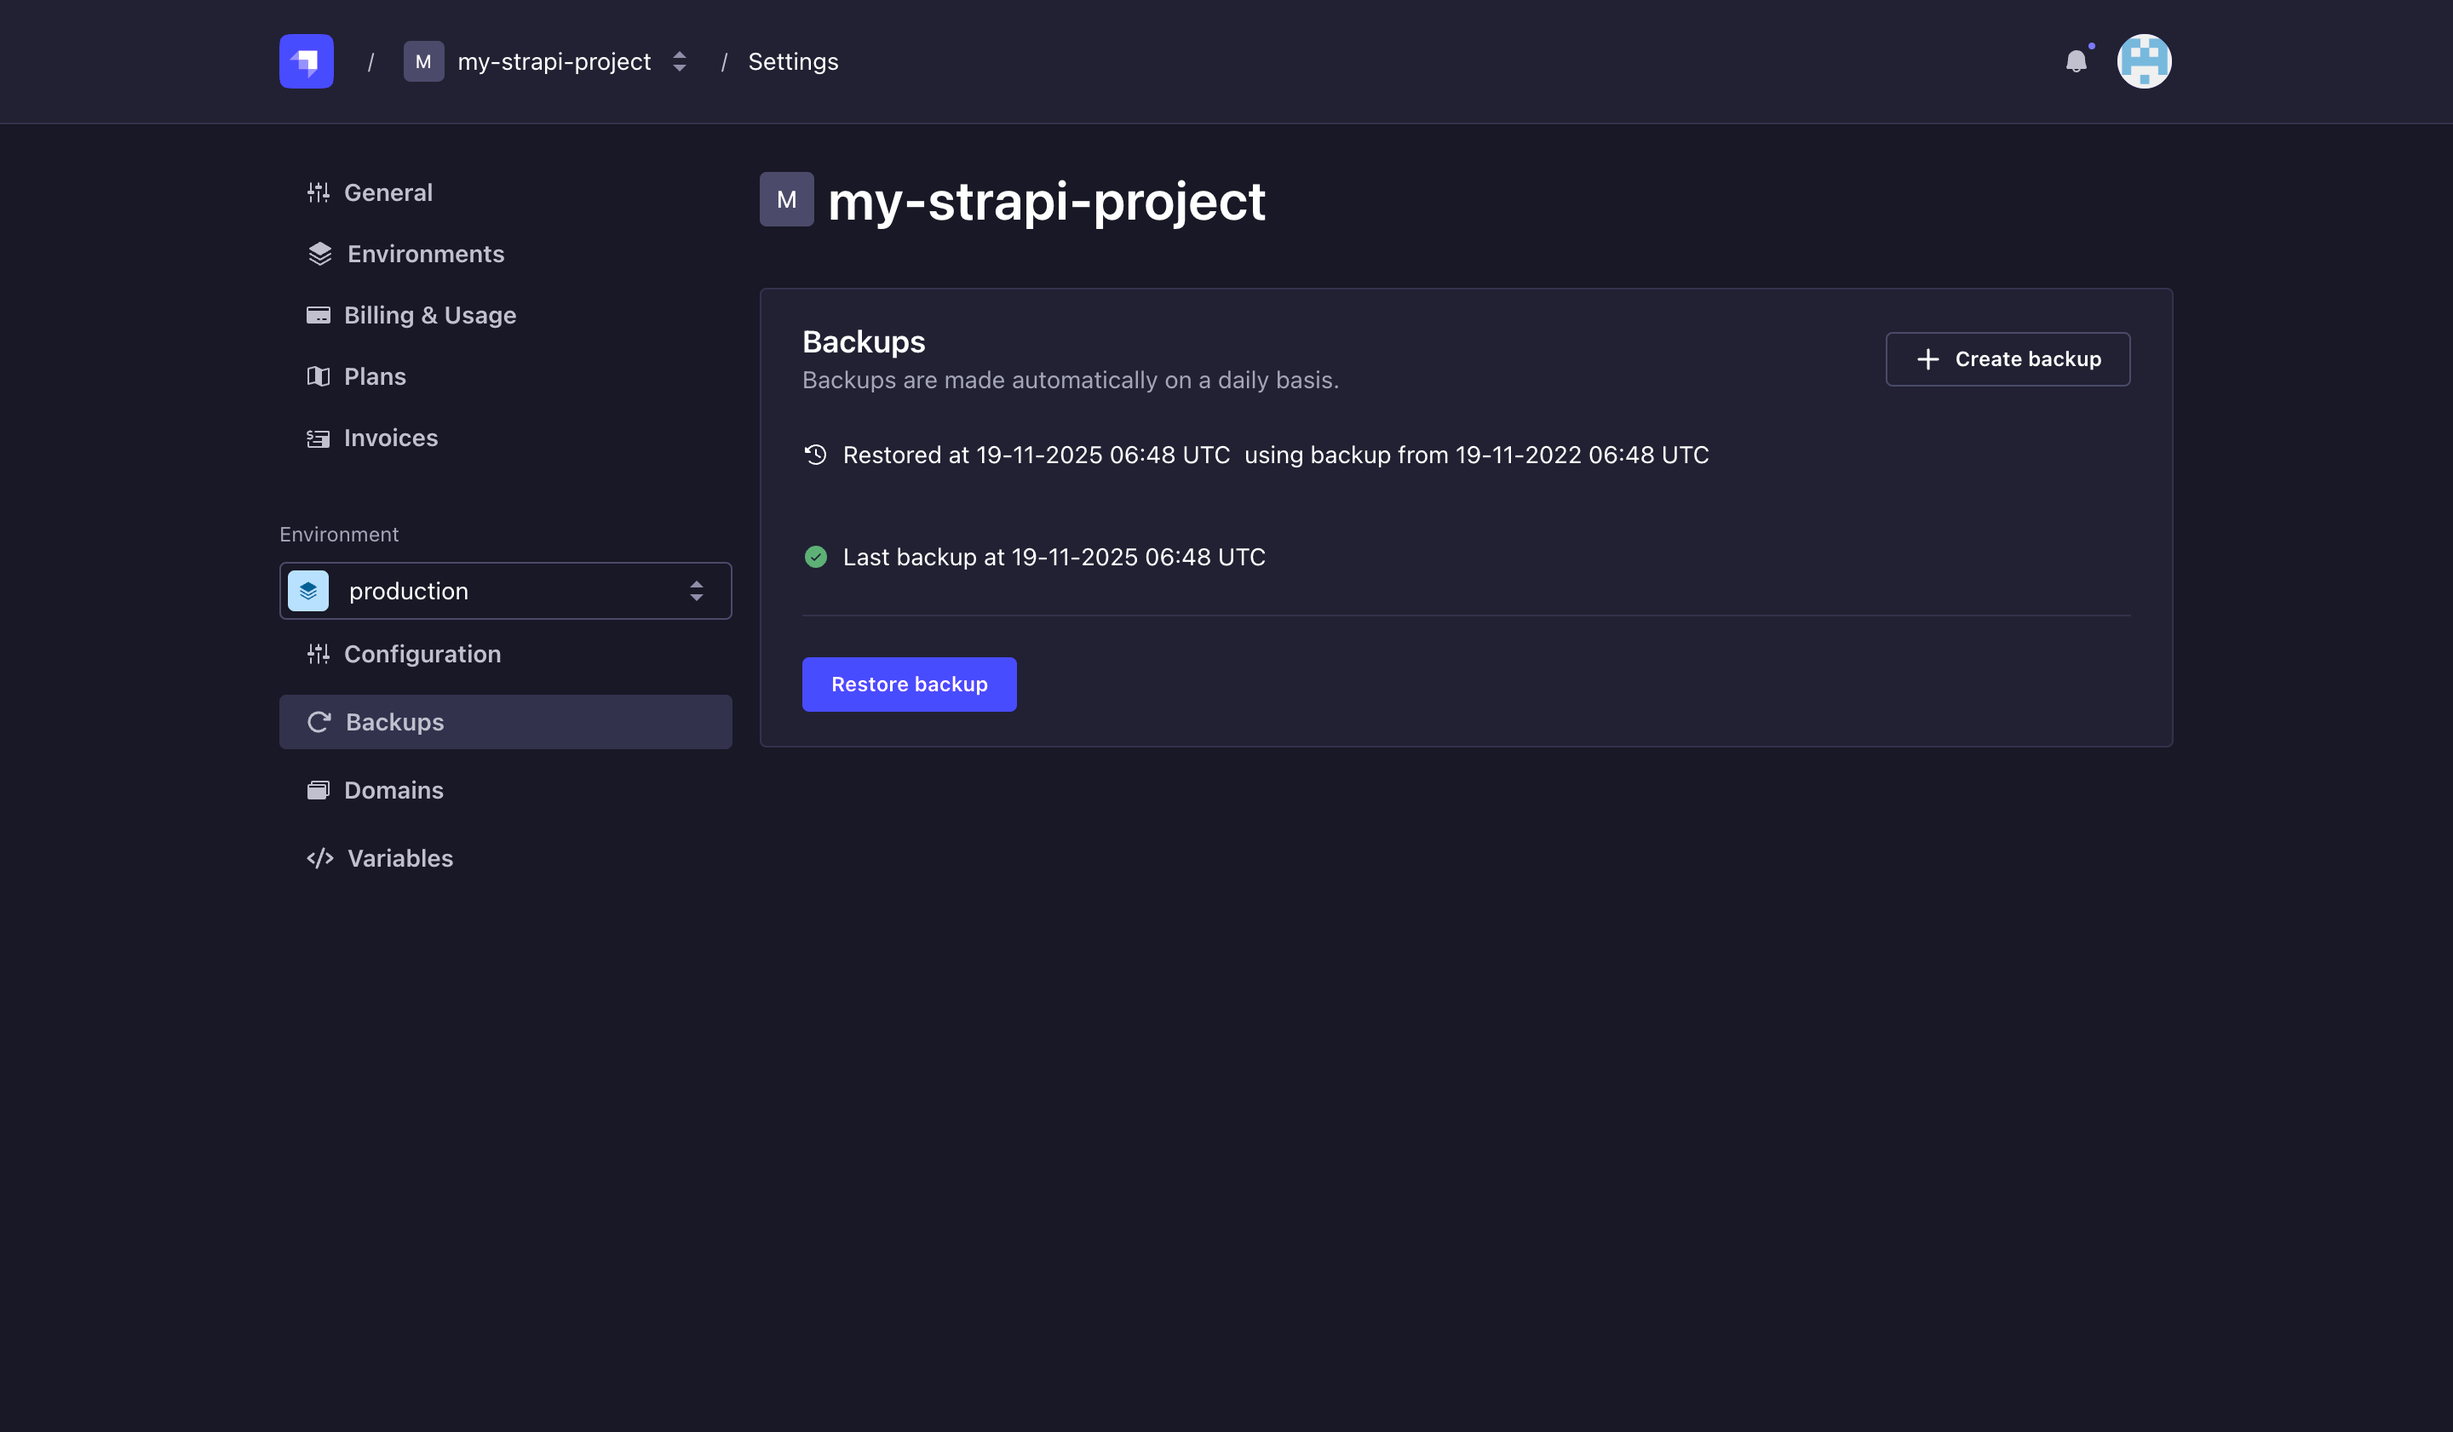
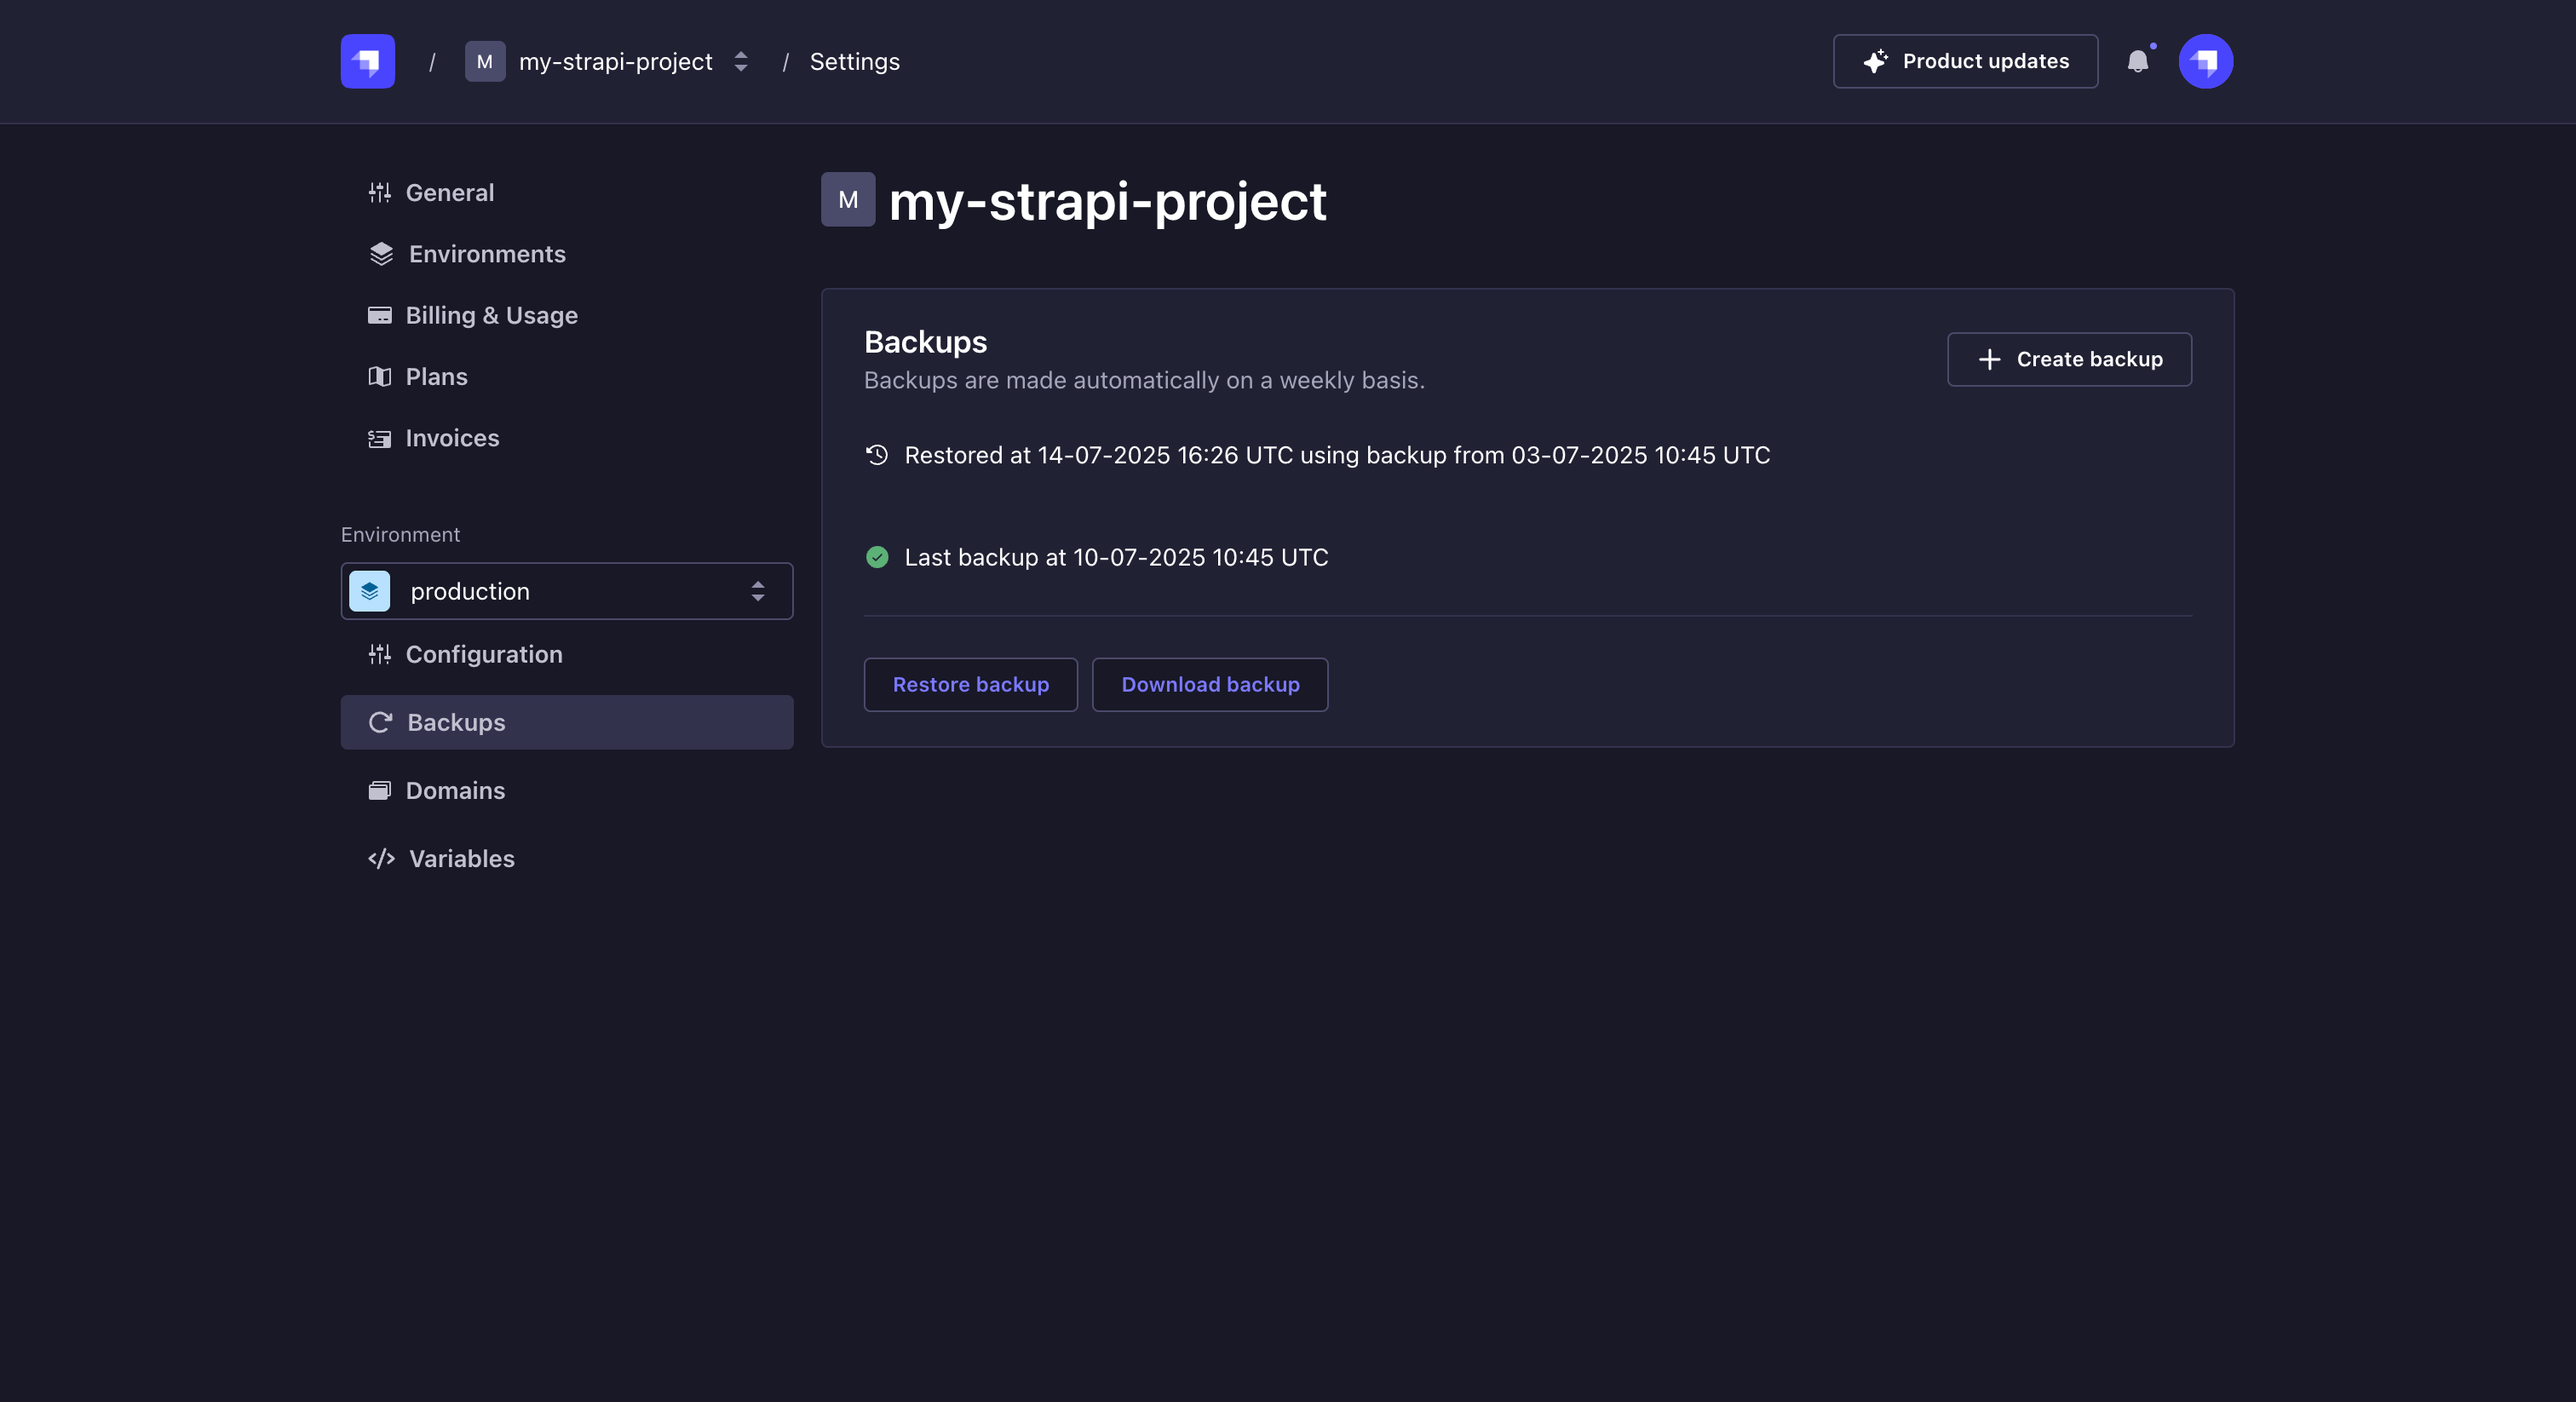
feat: documentation for download backup

diff --git a/docusaurus/docs/cloud/projects/settings.md b/docusaurus/docs/cloud/projects/settings.md
@@ -339,13 +339,14 @@ The <Icon name="arrow-clockwise" /> *Backups* tab informs you of the status and 
 
 :::note Notes
 
-- The backup feature is not available for Strapi Cloud projects using the Free or Essential plans. You will need to upgrade to either the Pro or Scale plan to have your project automatically backed up and to have access to manual backups.
+- The backup feature is not available for Strapi Cloud projects on the Free or Essential plans. You will need to upgrade to the Pro or Scale plan to enable automatic backups and access the manual backup option.
 
-<!-- - Only project owners can restore a backup. Maintainers have access to the <Icon name="arrow-clockwise" /> *Backups* tab but the **Restore backup** button won't be displayed for them. Refer to [Collaboration](/cloud/projects/collaboration) for more information. -->
+- Backups include only the database of your default Production environment. Assets uploaded to your project and databases from any secondary environments are not included.
 
-- The manual backup option should become available shortly after project's first succesful deployment.
+- The manual backup option becomes available shortly after the project’s first successful deployment.
 
-- The backup feature is only available for the default, production environment. Other additional environment's settings will not show the <Icon name="arrow-clockwise" /> *Backups* tab.
+
+
 :::
 
 :::tip
@@ -364,7 +365,7 @@ For projects created before the release of the Backup feature in October 2023, t
 
 To create a manual backup, in the <Icon name="arrow-clockwise" /> *Backups* section, click on the **Create backup** button.
 
-The manual backup should start immediately, and restoration or creation of other backups will be disabled until backup is complete.
+The manual backup should start immediately, and restoration or creation of other backups will be disabled until the backup is complete.
 
 :::caution
 When creating a new manual backup, any existing manual backup will be deleted. You can only have one manual backup at a time.
@@ -378,6 +379,18 @@ If you need to restore a backup of your project:
 2. In the dialog, choose one of the available backups (automatic or manual) of your project in the *Choose backup* drop-down.
 3. Click on the **Restore** button of the dialog. Once the restoration is finished, your project will be back to the state it was at the time of the chosen backup. You will be able to see the restoration timestamp and the backup restored in the <Icon name="arrow-clockwise"/> *Backups* tab.
 4. The timestamp of the last completed restoration will be displayed to help you track when the project was last restored.
+
+#### Downloading a backup
+
+If you need to download a backup of your project:
+
+1. In the <Icon name="arrow-clockwise" /> *Backups* section, click on the **Download backup** button.
+2. In the dialog, choose one of the available backups (automatic or manual) of your project in the *Choose backup* drop-down.
+3. Click on the **Download** button of the dialog to download the chosen backup's archive file in `.sql` format.
+
+:::note
+The backup file will include only the database of your default Production environment. It will not include assets or any other environment databases.
+:::
 
 ### Domains
 
